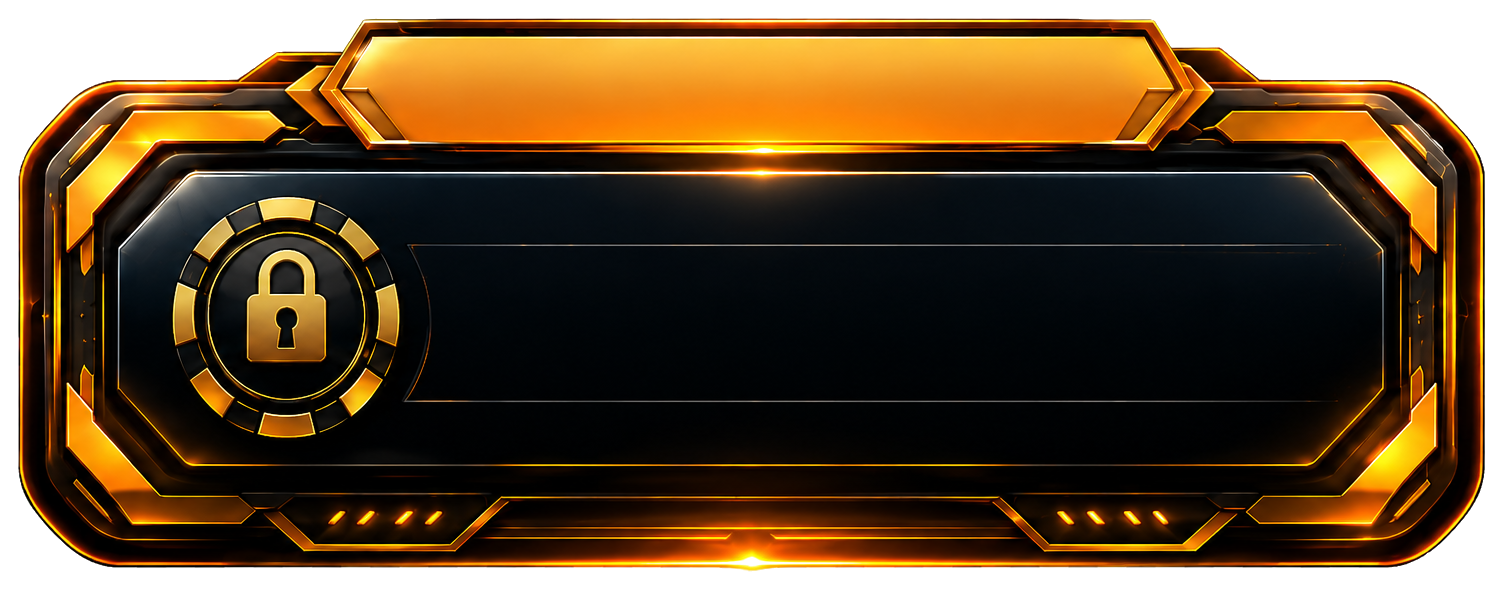
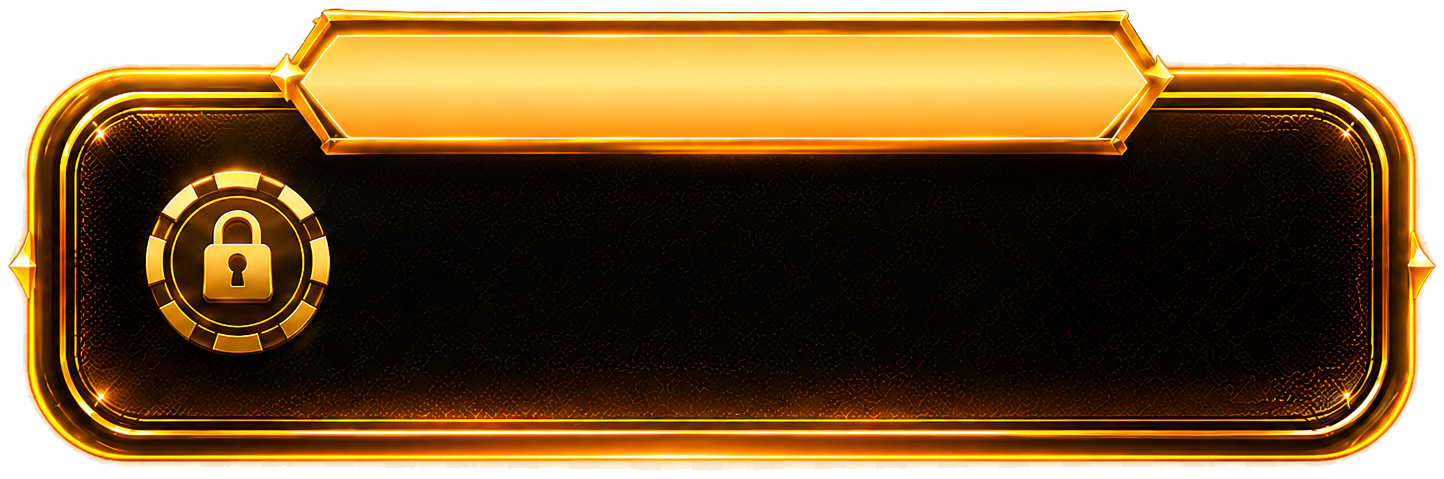
Polish private cash and raffle UI

diff --git a/styles-rating-raffles.css b/styles-rating-raffles.css
@@ -8456,11 +8456,11 @@ body[data-view="raffles"] .raffles-active-chooser__buyin-tile,
 body[data-view="raffles"] .raffles-active-chooser__item--cash .raffles-active-chooser__buyin-tile {
   position: relative !important;
   display: grid !important;
-  grid-template-columns: minmax(0, 1fr) clamp(128px, 30%, 154px) !important;
+  grid-template-columns: minmax(0, 1fr) clamp(118px, 28%, 146px) !important;
   grid-template-areas: "text side" !important;
   align-items: center !important;
   justify-items: stretch !important;
-  column-gap: 10px !important;
+  column-gap: 8px !important;
   width: 100% !important;
   min-width: 0 !important;
   min-height: clamp(46px, 4.8vw, 58px) !important;
@@ -8483,7 +8483,7 @@ body[data-view="raffles"] .raffles-active-chooser__buyin-tile-text {
   justify-items: start !important;
   min-width: 0 !important;
   overflow: hidden !important;
-  font-size: clamp(10px, 1.08vw, 13px) !important;
+  font-size: clamp(9px, 0.98vw, 12px) !important;
   line-height: 1.03 !important;
 }
 
@@ -8492,6 +8492,10 @@ body[data-view="raffles"] .raffles-active-chooser__buyin-tile-text span {
   white-space: nowrap !important;
   overflow: hidden !important;
   overflow-wrap: normal !important;
+}
+
+body[data-view="raffles"] .raffles-active-chooser__buyin-tile-text span:last-child {
+  font-size: 0.94em !important;
 }
 
 body[data-view="raffles"] .raffles-active-chooser__buyin-tile-side {
@@ -9099,13 +9103,13 @@ body[data-view="raffles"] .raffles-active-chooser__item--cash .raffles-active-ch
 
   body[data-view="raffles"] .raffles-active-chooser__buyin-tile,
   body[data-view="raffles"] .raffles-active-chooser__item--cash .raffles-active-chooser__buyin-tile {
-    grid-template-columns: minmax(0, 1fr) minmax(88px, 43%) !important;
+    grid-template-columns: minmax(0, 1fr) minmax(86px, 40%) !important;
     min-height: 40px !important;
     padding: 5px 7px !important;
   }
 
   body[data-view="raffles"] .raffles-active-chooser__buyin-tile-text {
-    font-size: clamp(7px, 1.95vw, 8.5px) !important;
+    font-size: clamp(6.8px, 1.82vw, 8px) !important;
     line-height: 1.02 !important;
   }
 

diff --git a/styles.css b/styles.css
@@ -5,7 +5,7 @@
 @import url("./styles-home.css?v=3.666");
 @import url("./styles-chat.css?v=3.666");
 @import url("./styles-learning-games.css?v=3.666");
-@import url("./styles-raffles.css?v=3.683");
+@import url("./styles-raffles.css?v=3.684");
 @import url("./styles-daily-poker.css?v=3.666");
 @import url("./styles-home-legacy-prelude.css?v=3.666");
 @import url("./styles-download.css?v=3.667");
@@ -18,7 +18,7 @@
 @import url("./styles-profile.css?v=3.677");
 @import url("./styles-layout.css?v=3.666");
 @import url("./styles-chat-overlays.css?v=3.666");
-@import url("./styles-home-overrides.css?v=3.733");
+@import url("./styles-home-overrides.css?v=3.734");
 @import url("./styles-layout-touch-targets.css?v=3.666");
 @import url("./styles-home-rating-promo-late.css?v=3.666");
 
@@ -2543,13 +2543,13 @@ body[data-view="daily-poker"] #app.app .daily-poker__header::before {
   padding-top: clamp(18px, 3.6vw, 31px);
   padding-left: clamp(61px, 11.8vw, 112px);
   font-size: clamp(14px, 2.75vw, 27px);
-  background-image: url("./assets/home-club-choice-private-cash-panel.png?v=3.733");
+  background-image: url("./assets/home-club-choice-private-cash-panel.png?v=3.734");
 }
 
 .home-club-choice-plaque--vote {
   padding-left: clamp(56px, 10.8vw, 102px);
   font-size: clamp(15px, 2.9vw, 29px);
-  background-image: url("./assets/home-club-choice-vote-panel.png?v=3.733");
+  background-image: url("./assets/home-club-choice-vote-panel.png?v=3.734");
 }
 
 .home-club-choice-plaque::before {

diff --git a/index.html b/index.html
@@ -301,7 +301,7 @@
     <link rel="preload" as="image" href="./assets/home-freeroll-bg-saturday.webp" fetchpriority="low" />
     <link rel="preload" as="image" href="./assets/chat-profile-default-hero-male.webp" fetchpriority="low" />
     <link rel="preload" as="image" href="./assets/chat-profile-default-hero-female.webp?v=3.001" fetchpriority="low" />
-    <link rel="stylesheet" href="./styles.css?v=3.733" />
+    <link rel="stylesheet" href="./styles.css?v=3.734" />
     <link rel="stylesheet" href="./styles-home-achievements.css?v=3.666" />
     <!-- Главная: скролл как в остальных разделах — прокручивается вся страница -->
     <style id="home-layout-critical">
@@ -1727,7 +1727,7 @@
     <script defer src="./app-video-lessons-modals.js?v=3.666"></script>
     <script defer src="./app-equilator.js?v=3.666"></script>
     <script defer src="./app-club-choice-vote.js?v=3.666"></script>
-    <script defer src="./app-private-cash.js?v=3.687"></script>
+    <script defer src="./app-private-cash.js?v=3.688"></script>
     <script type="application/poker-lazy" data-poker-lazy-domain="club-tasks" src="./app-club-tasks.js?v=3.666"></script>
     <script defer data-poker-eager-domain="app" src="./app-rating-spring-runtime.js?v=3.666"></script>
     <script defer data-poker-eager-domain="app" src="./app-rating-summer-runtime.js?v=3.666"></script>

diff --git a/app-private-cash.js b/app-private-cash.js
@@ -623,11 +623,6 @@
   function renderEvent(event) {
     var my = event.myParticipant || null;
     return '<article class="private-cash-modal__event">' +
-      renderPrivateCashHero(event) +
-      renderEventBonuses(event.combinations) +
-      renderCashSeatLists(event) +
-      renderParticipant(event, my) +
-      renderRules() +
       '<section class="private-cash-modal__summary" aria-label="Детали игры">' +
         '<div class="private-cash-modal__event-head private-cash-modal__summary-head">' +
           '<div><span>Дата и время</span><strong>' + escapeHtml(formatDate(event.date)) + ' · ' + escapeHtml(event.time) + '</strong></div>' +
@@ -642,6 +637,11 @@
         '</div>' +
       '</section>' +
       (event.description ? '<p class="private-cash-modal__text">' + escapeHtml(event.description) + '</p>' : '') +
+      renderEventBonuses(event.combinations) +
+      renderPrivateCashHero(event) +
+      renderCashSeatLists(event) +
+      renderParticipant(event, my) +
+      renderRules() +
       renderParticipants(event) +
     '</article>';
   }

diff --git a/styles-home-overrides.css b/styles-home-overrides.css
@@ -604,11 +604,11 @@ html[data-theme="neon"] .app.app--view-home .header-more-menu .theme-toggle .the
 }
 
 .app.app--view-home .home-club-choice-plaque--cash {
-  background-image: url("./assets/home-club-choice-private-cash-panel.png?v=3.733") !important;
+  background-image: url("./assets/home-club-choice-private-cash-panel.png?v=3.734") !important;
 }
 
 .app.app--view-home .home-club-choice-plaque--vote {
-  background-image: url("./assets/home-club-choice-vote-panel.png?v=3.733") !important;
+  background-image: url("./assets/home-club-choice-vote-panel.png?v=3.734") !important;
 }
 
 [data-theme="light"] .app.app--view-home .card:has(.view--active[data-view="home"]) .card__header {

diff --git a/styles-raffles.css b/styles-raffles.css
@@ -1,2 +1,2 @@
 /* Raffles CSS entrypoint. */
-@import url("./styles-rating-raffles.css?v=3.683");
+@import url("./styles-rating-raffles.css?v=3.684");
